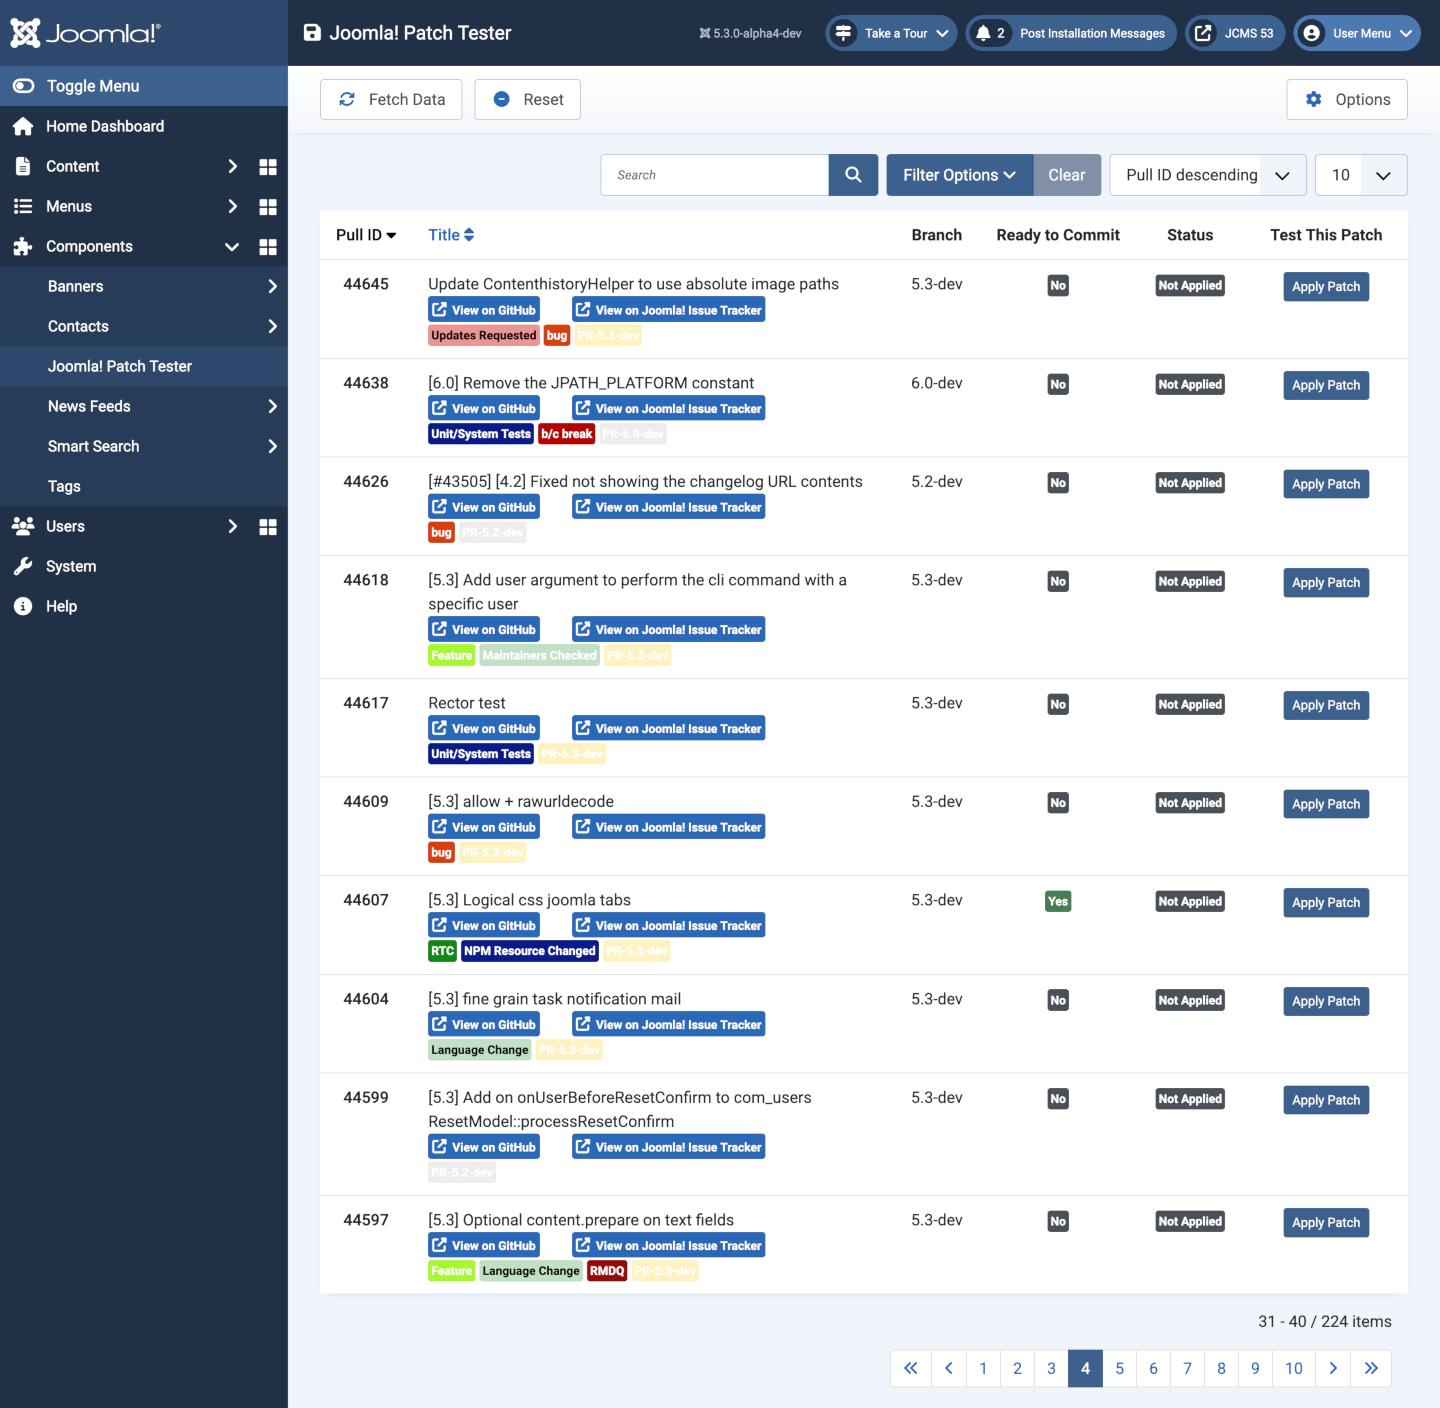
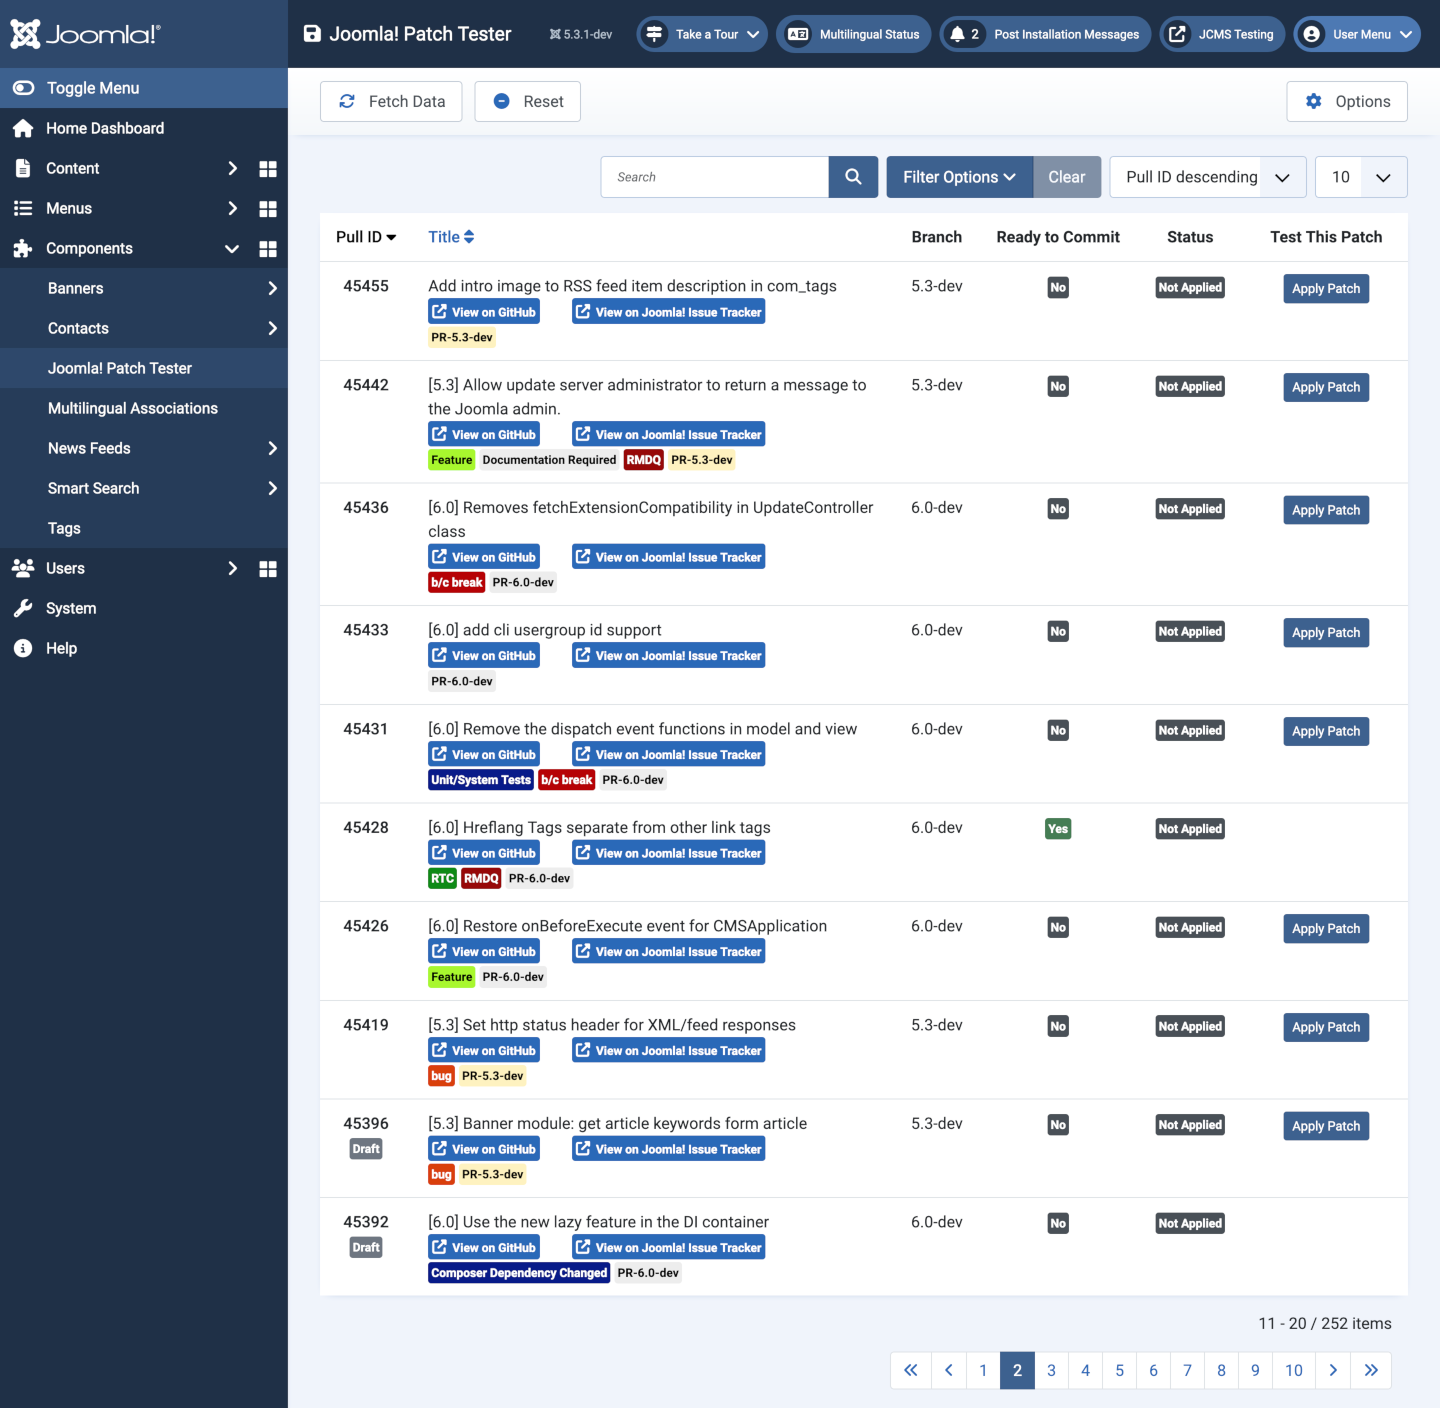
Changed images and reworded to explain missing Apply Patch buttons.

diff --git a/docs/testing/manually/patch-tester.md b/docs/testing/manually/patch-tester.md
@@ -15,7 +15,9 @@ Download the latest [Patch Tester zip file](https://github.com/joomla-extensions
 2. Select the **Options** button from the Toolbar.
 3. Select the **GitHub Authentication** tab.
 4. In the **GitHub Token** field paste in the API Token you obtained for your GitHub account.
-5. **Save & Close**
+5. **Optional** If you are an advanced user and know how to test patches that have *NPM Resource Changed*, *Composer Dependency Changed*, or are *RTC*:
+    - Select the **Patch Tester** tab and set the *Advanced* option to *Yes*.
+6. **Save & Close**
 
 ![patch tester options for github authentication](_assets/patch-tester-settings-authentication.png)
 
@@ -23,7 +25,7 @@ Download the latest [Patch Tester zip file](https://github.com/joomla-extensions
 
 In the *Joomla! Patch Tester* page select the **Fetch Data** button. After a few seconds you will see a list of items for testing (224 in the example screenshot below but this changes hourly).
 
-It is worth spending some time on examination of the list. For example the first issue marked as a **bug** in red does not appear until page 3 today (10 items per page). The following screenshot is of page 4 today:
+It is worth spending some time on examination of the list. For example the first issue marked as a **bug** in red does not appear until page 2 today (10 items per page):
 
 ![patch tester list of issues](_assets/patch-tester-list.png)
 
@@ -33,7 +35,10 @@ It is worth spending some time on examination of the list. For example the first
 - The **View on GitHub** and **View on Joomla! Issue Tracker** links open those sites in new windows. The latter is used to look for testing instructions and reporting results.
 - The coloured labels contain information about the pull request, such as *bug* or *Feature* and whether a test has an *NPM Resource Changed*.
 - The **Branch** shows which Joomla branch the pull request was created for. You will see all pull requests for all branches in the list. Some pull requests may require testing against a specific branch but this is not always so.
-- The **Apply Patch** button applies the patch created in the pull request to your test installation. If the patch involves an NPM Resource Change you need to use the command line to run `npm ci` or `npm run build:css` if the change only affects CSS files or `npm run build:js` if the change only affects JavaScript files. You can then follow the Test Instructions in the Issue Tracker to test the patch. When finished, *Revert* the patch and rerun `npm ci` if the patch involves an NPM Resource Change.
+- The **Apply Patch** button applies the patch created in the pull request to your test installation. This button is initially absent for patches that involve an *NPM Resource Change*, *Composer Dependency Change* or are *RTC*.
+    - Advanced users: to enable the missing *Apply Patch* buttons set **Advanced Mode** to **Yes** in the *Options* and then use the command line to run `npm ci` or `npm run build:css` if the change only affects CSS files or `npm run build:js` if the change only affects JavaScript files. 
+- Follow the Test Instructions in the Issue Tracker to test the patch. When finished, *Revert* the patch.
+    - Advanced users: rerun `npm ci` if the patch involved an NPM Resource Change.
 
 ### Filter Options
 
